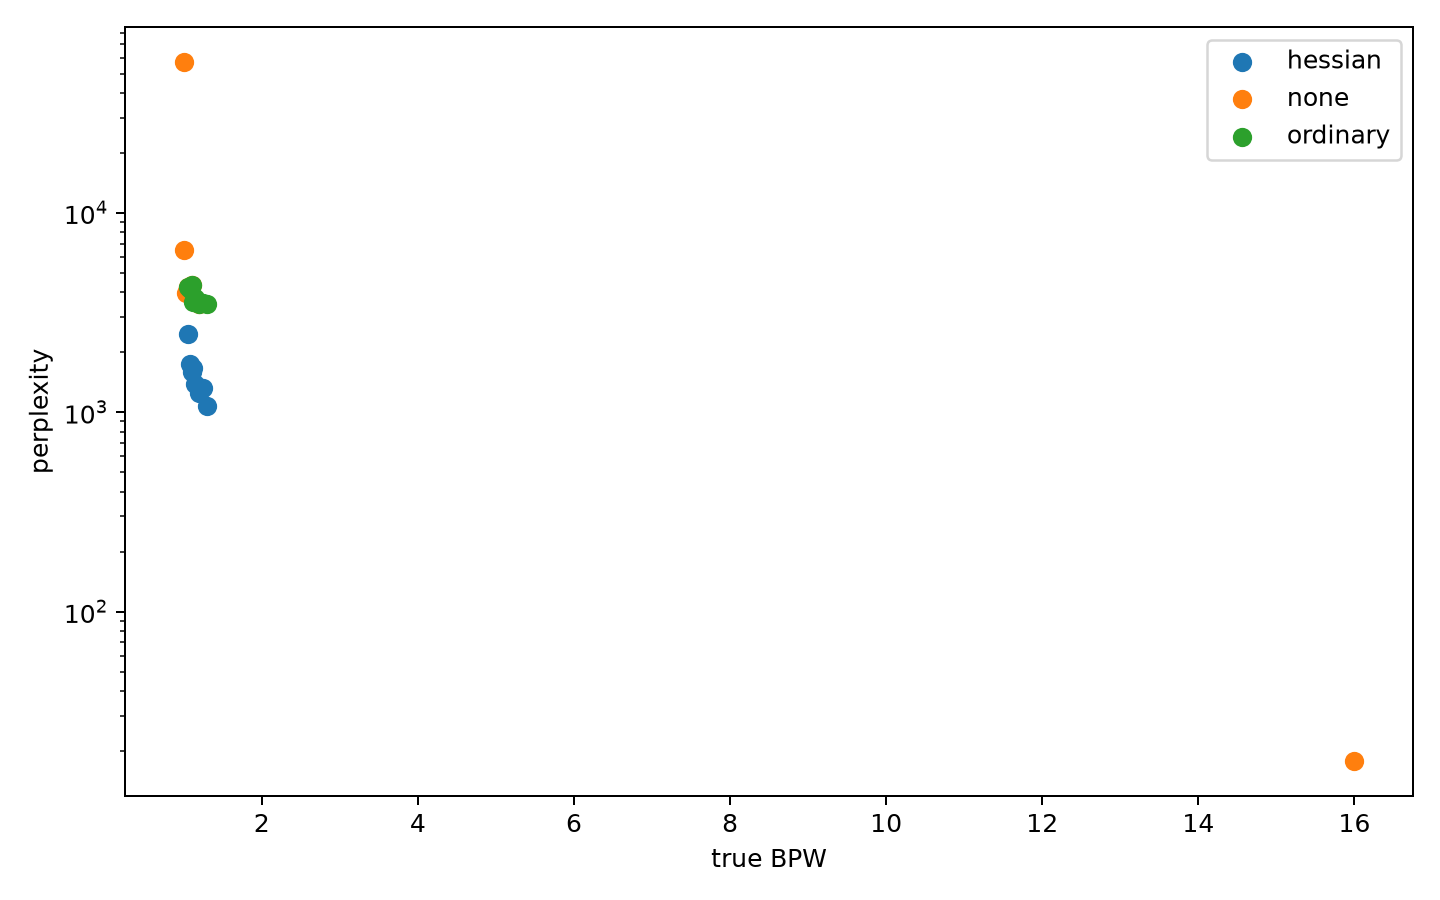
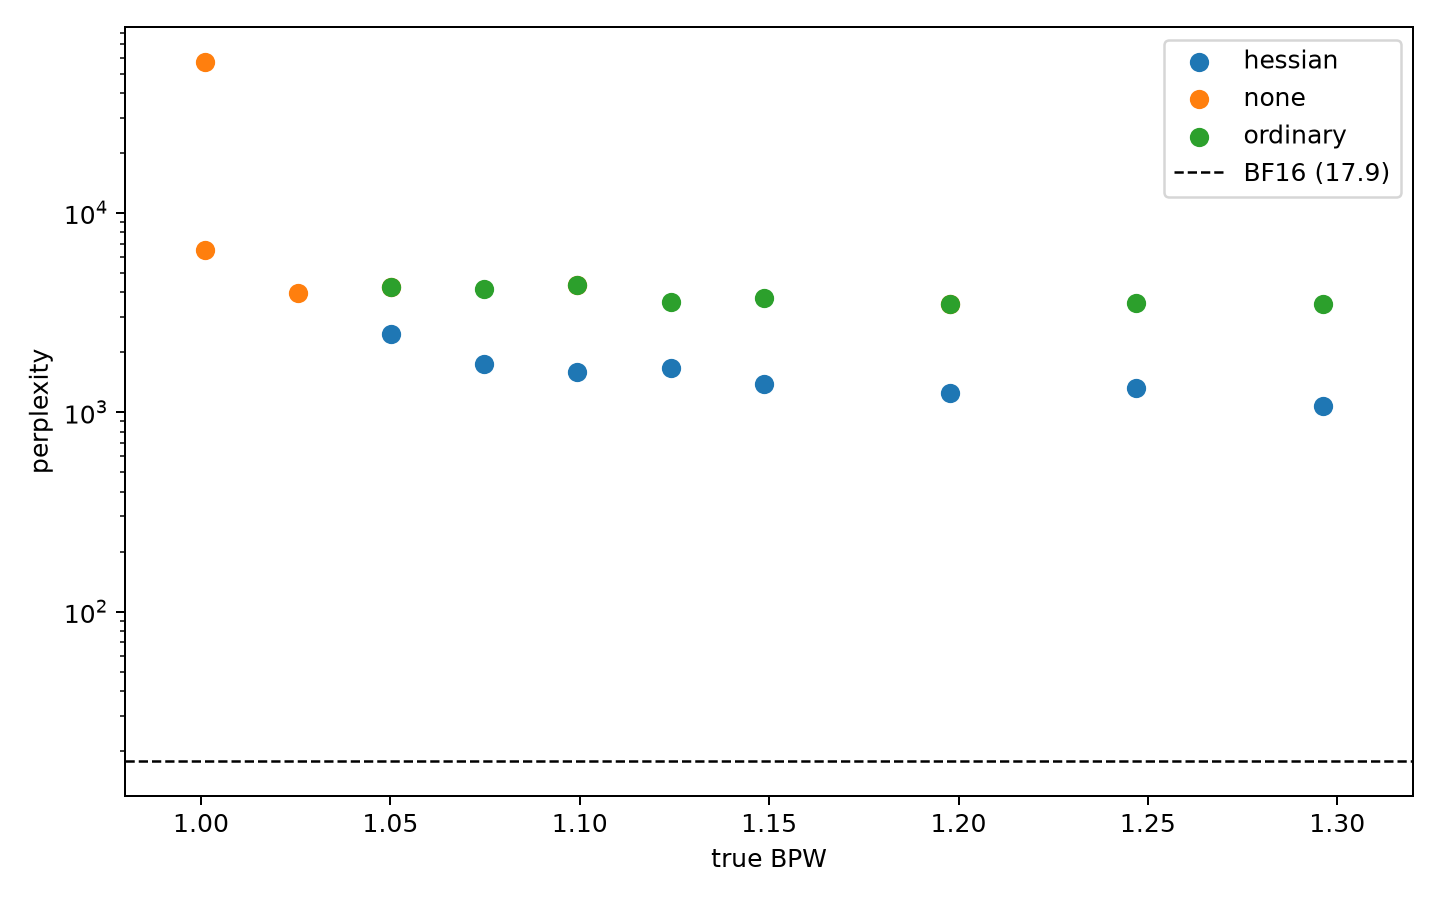
Improve Experiment 3 BPW plot

diff --git a/run_experiment3.py b/run_experiment3.py
@@ -165,9 +165,12 @@ def plot_results(out: Path, spectra: pd.DataFrame, aggregate_table: pd.DataFrame
     plt.savefig(p / "perplexity_vs_first_rank.png", dpi=180); plt.close()
 
     plt.figure(figsize=(8, 5))
-    for method, frame in ppl.groupby("stage2_method"):
+    low_bit = ppl[ppl.true_bpw <= 2]
+    for method, frame in low_bit.groupby("stage2_method"):
         plt.scatter(frame.true_bpw, frame.perplexity, label=method, s=45)
-    plt.xlabel("true BPW"); plt.ylabel("perplexity"); plt.yscale("log"); plt.legend(); plt.tight_layout()
+    bf16_ppl = float(ppl.loc[ppl.configuration == "bf16", "perplexity"].iloc[0])
+    plt.axhline(bf16_ppl, color="black", linestyle="--", linewidth=1, label=f"BF16 ({bf16_ppl:.1f})")
+    plt.xlabel("true BPW"); plt.ylabel("perplexity"); plt.yscale("log"); plt.xlim(.98, 1.32); plt.legend(); plt.tight_layout()
     plt.savefig(p / "perplexity_vs_bpw.png", dpi=180); plt.close()
 
     second = aggregate_table[aggregate_table.r2 > 0]
